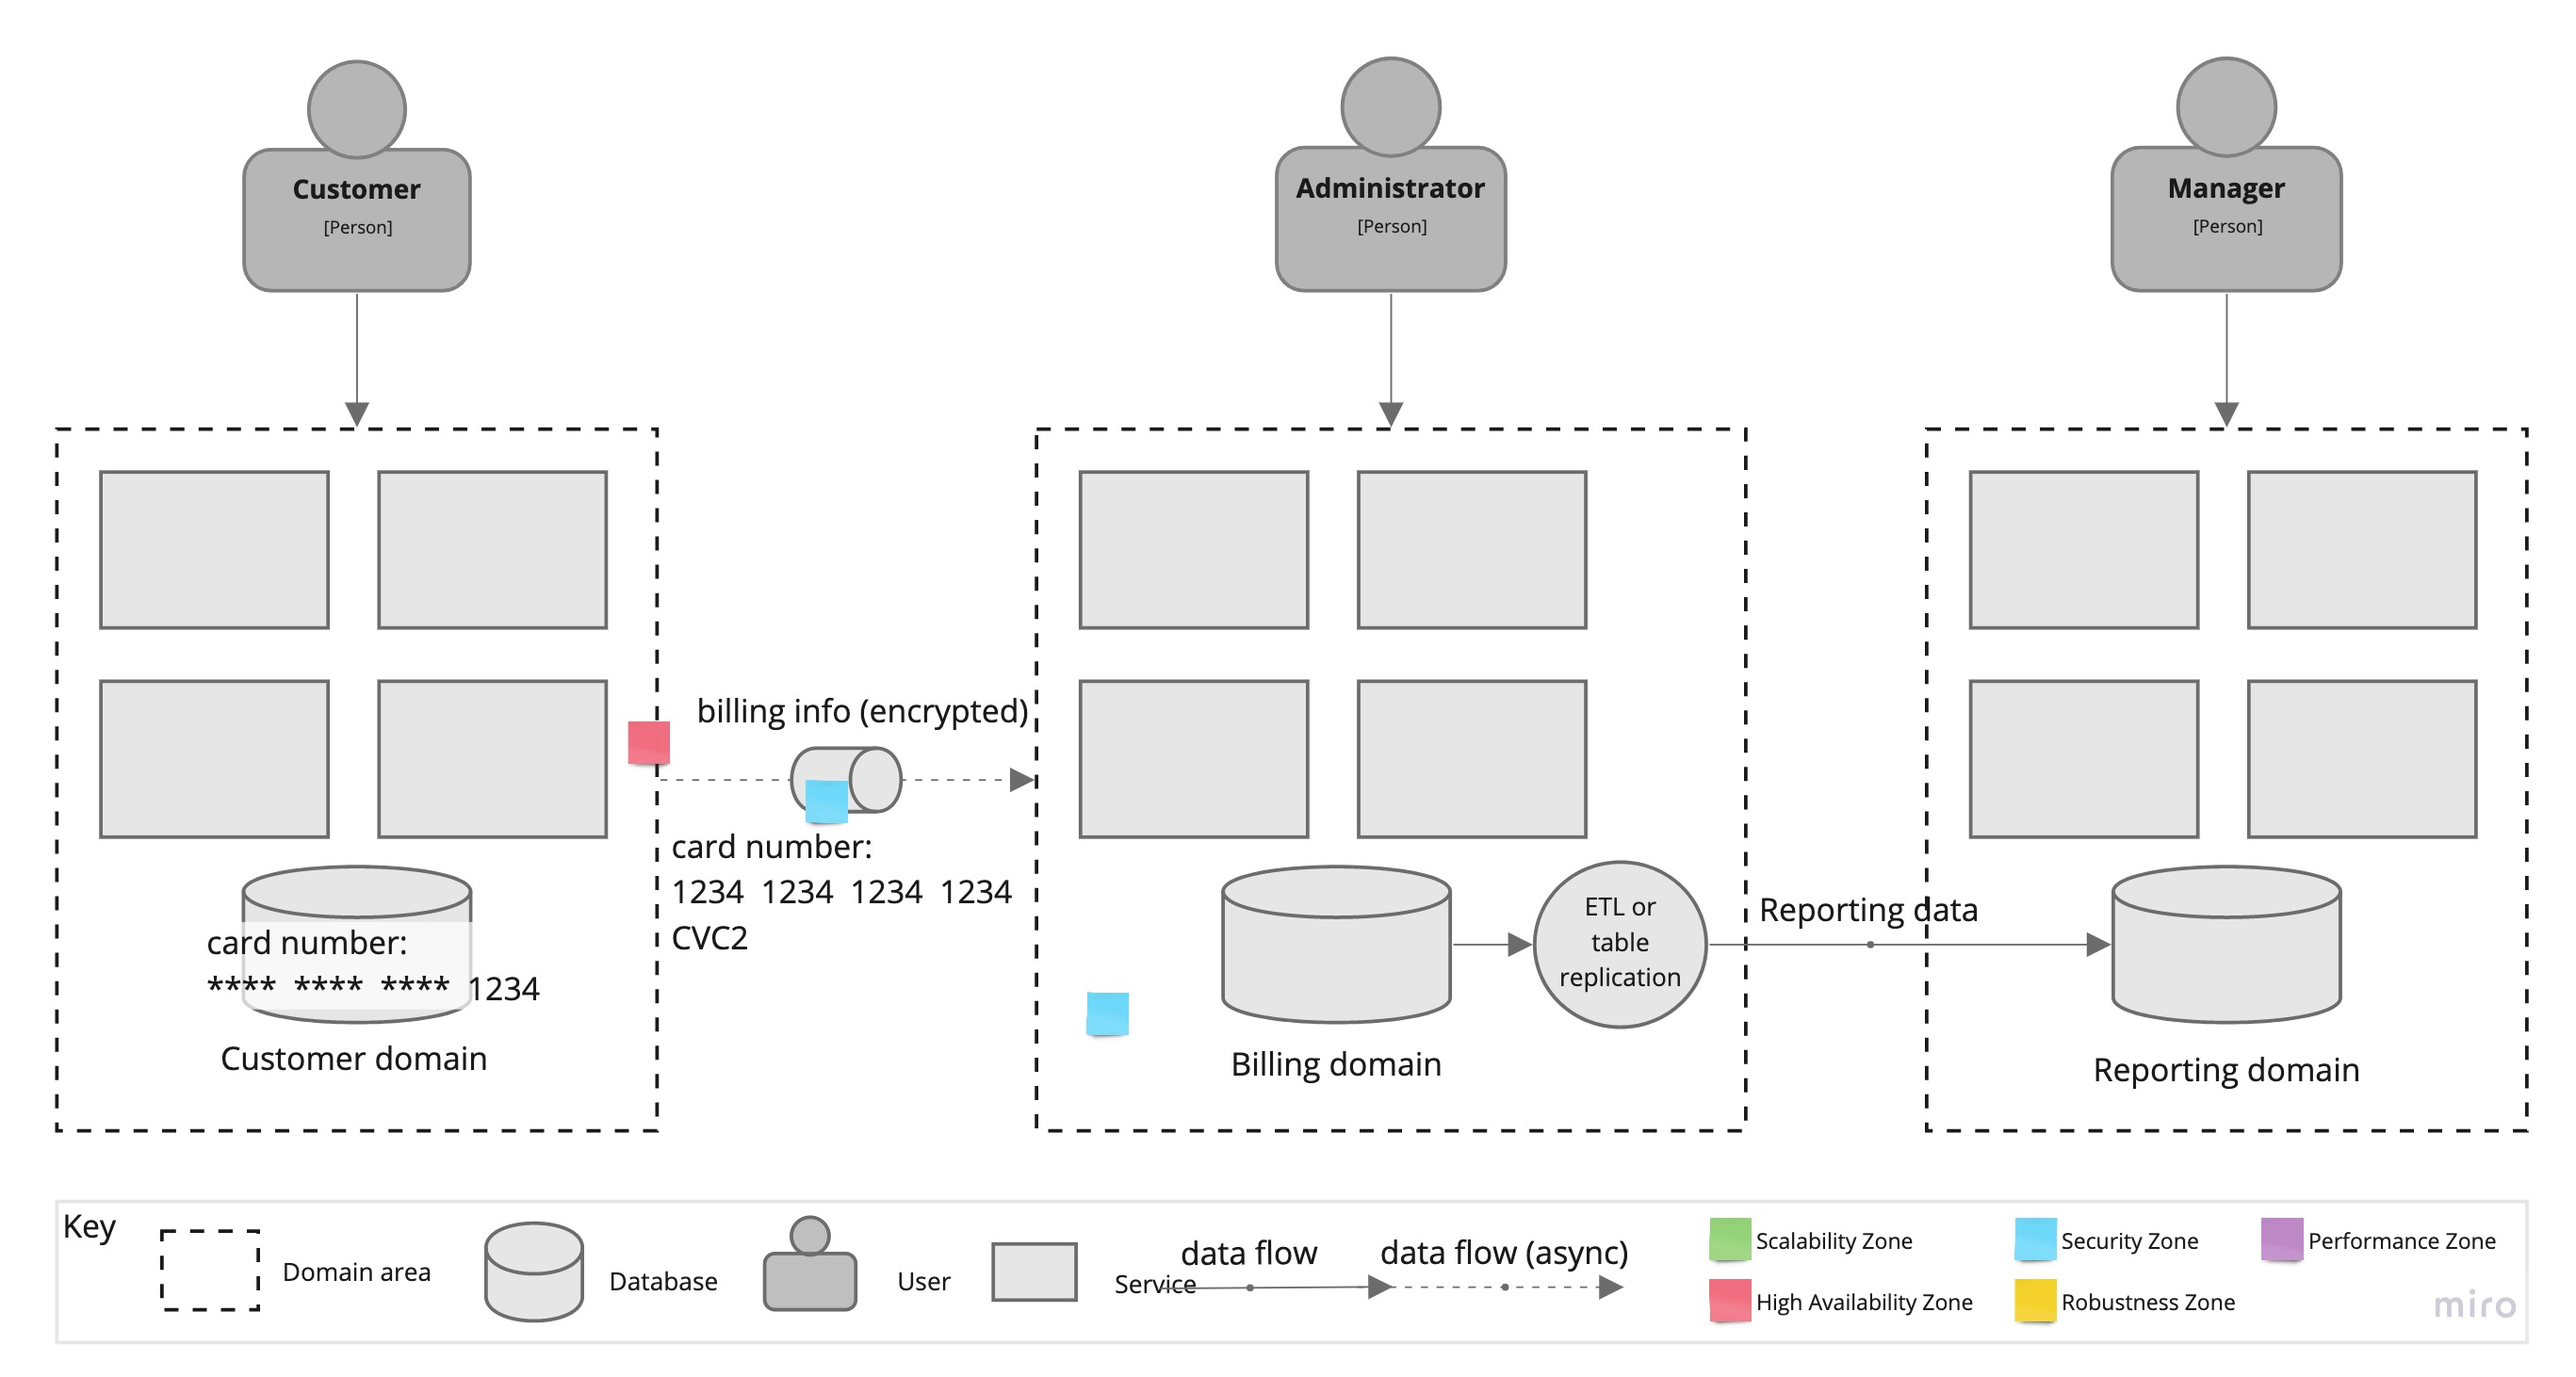
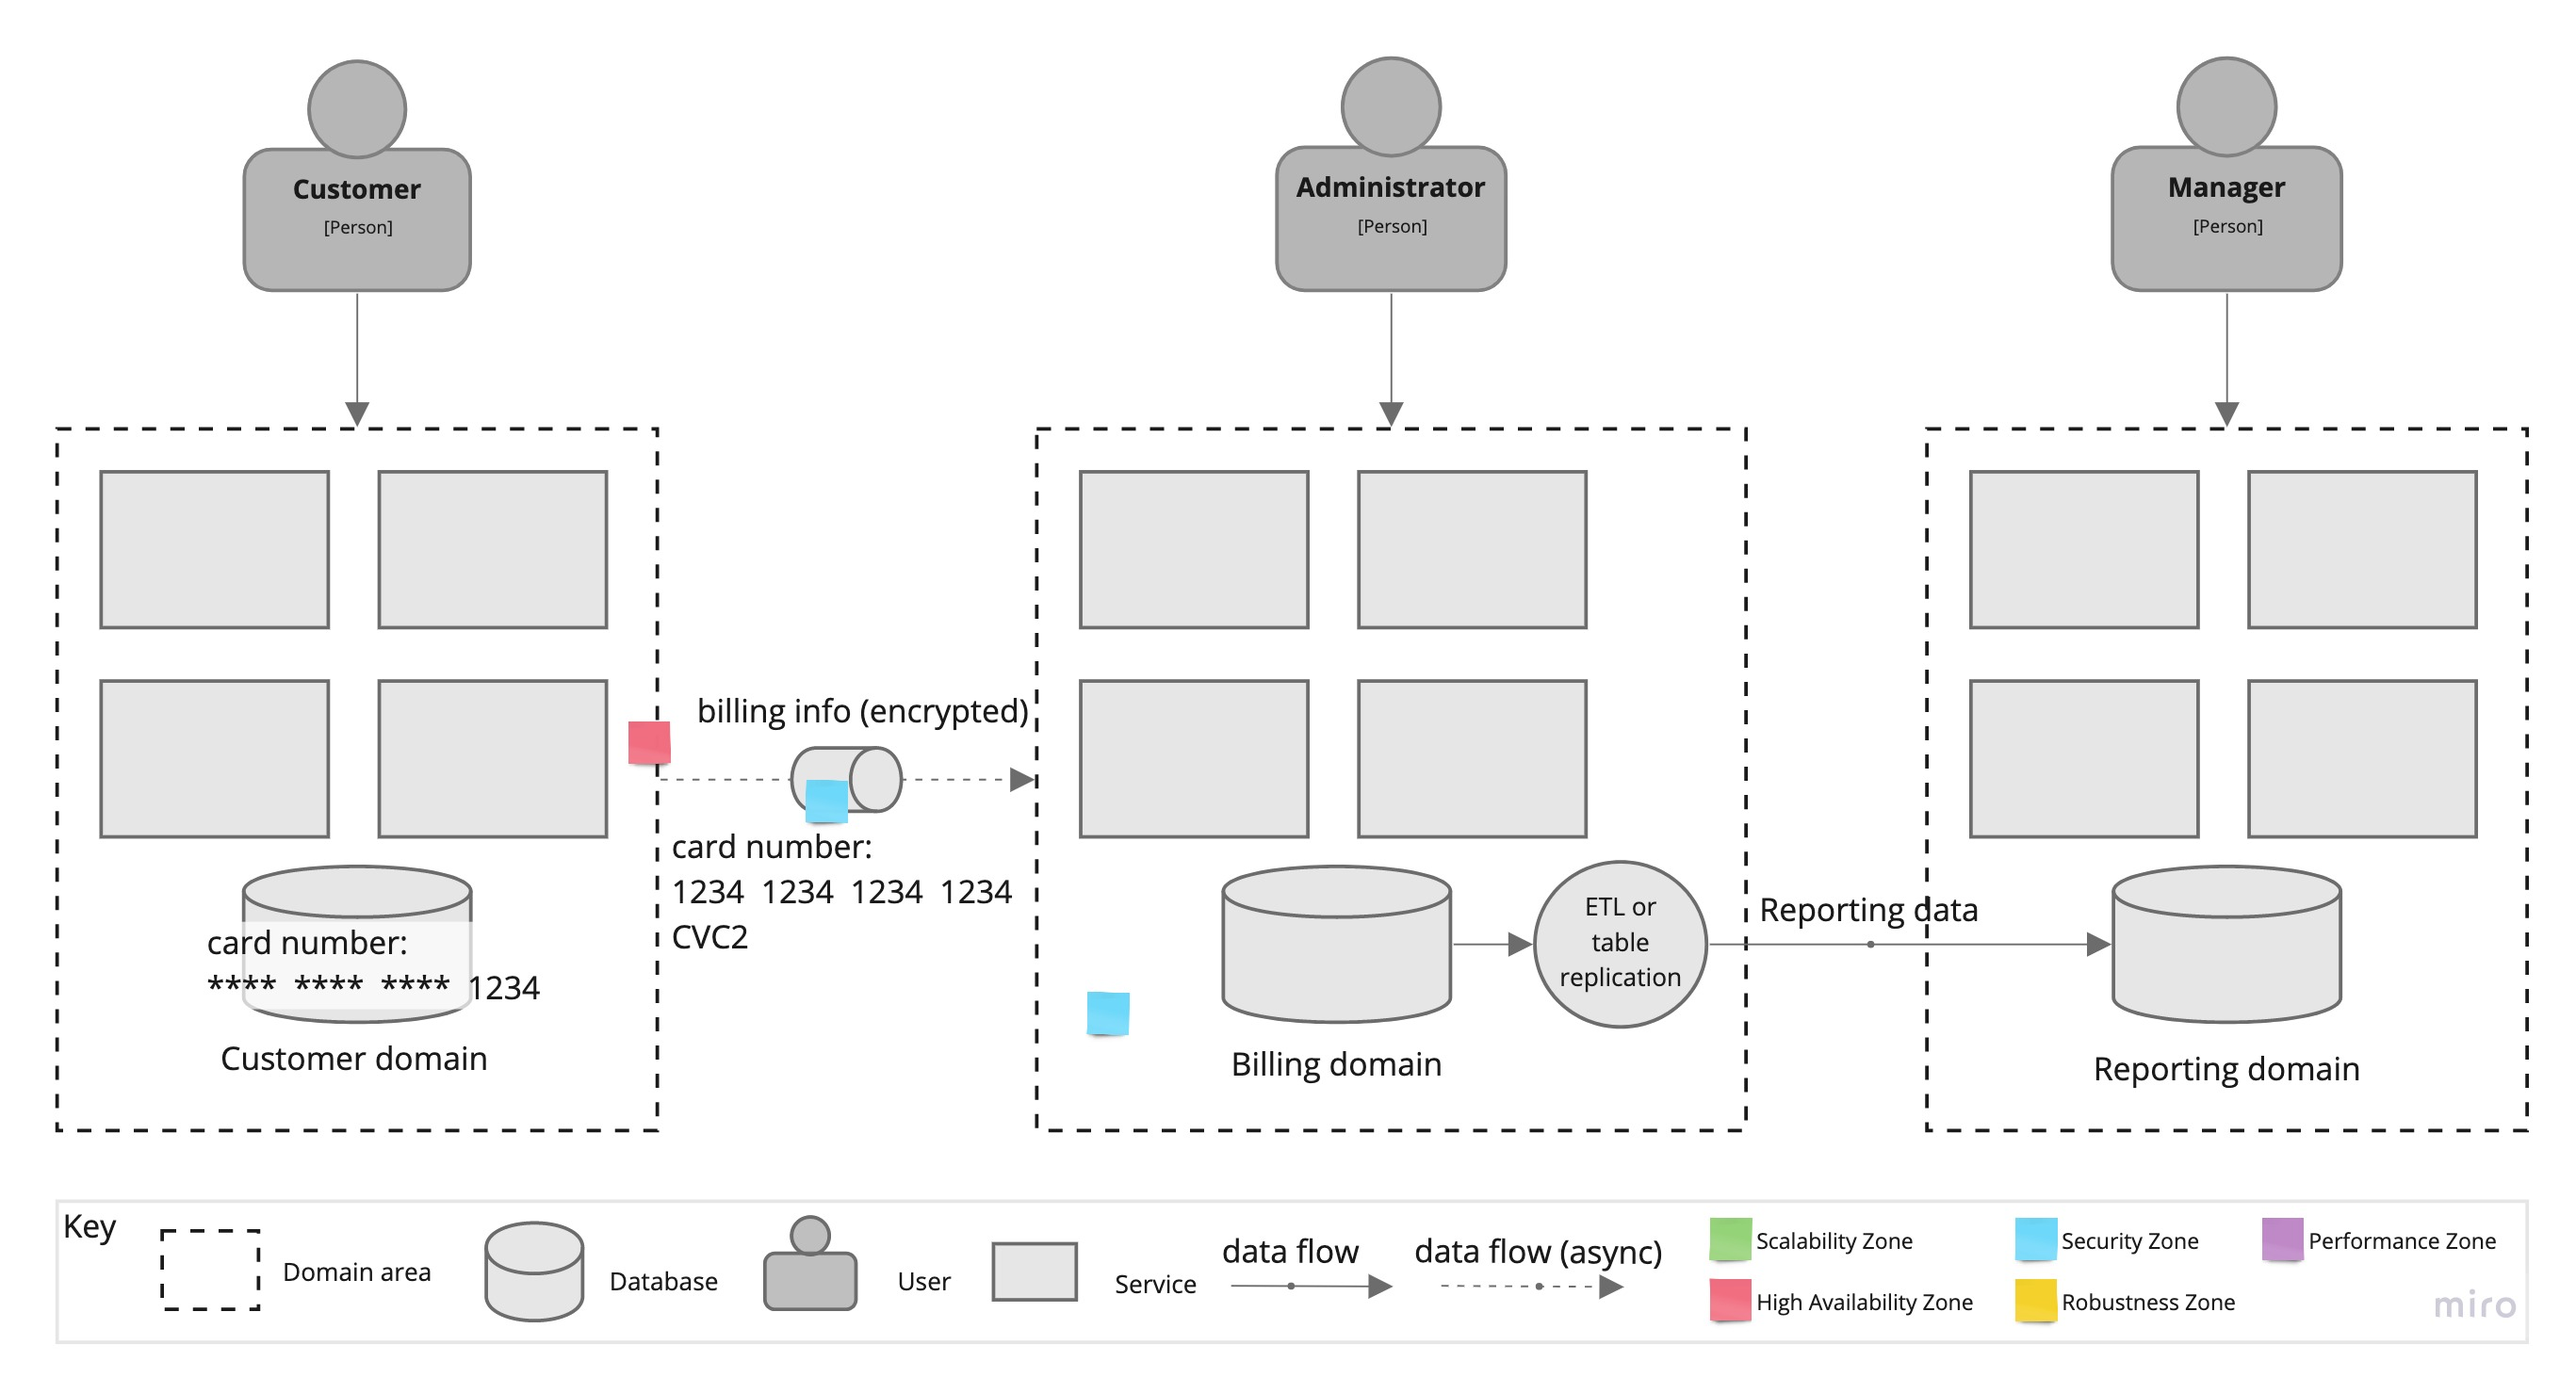
Fix type, cosmetic changes on the diagram

diff --git a/README.md b/README.md
@@ -50,7 +50,7 @@ The desired solution from the functional perspective is represented at the follo
 
 **Business Drivers**
 
-What business drives we can learn from the situation:
+What business drivers can we learn from the situation:
 
  * Poorly performing ticket tracking system*.
  * The whole business line can be abandoned.
